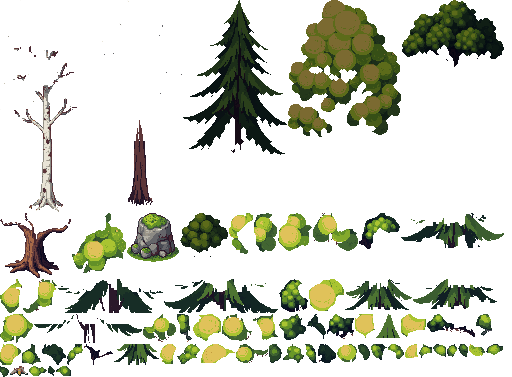
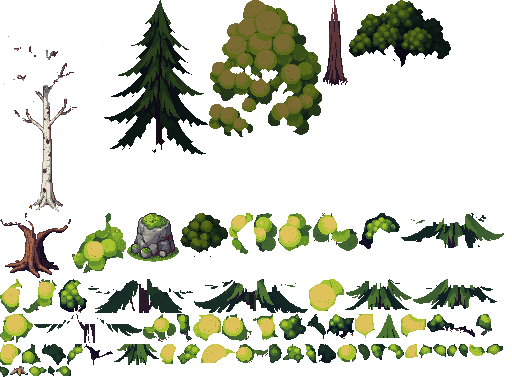
Repaint stray white specks in the oak and the pine
A new opt-in pipeline step, despeck, repaints tiny groups of pale pixels
with the commonest colour around them. The oak had a white blob at its
trunk fork that showed on every oak; the pine had white and grey pixels
in its needles that stayed still while its tiers moved. Source PNGs stay
as generated.

Claude-Session: https://claude.ai/code/session_01LW5Ku5sxgEsJoDuKHZoC4B

Changed region(s): [[0.1875, 0.0, 1.0, 0.5544], [0.0938, 0.7294, 0.625, 0.8462]]

diff --git a/tools/art_pipeline.py b/tools/art_pipeline.py
@@ -96,10 +96,47 @@ def strip_ground(rgba, rows, notes):
     return rgba
 
 
+def despeck(rgba, max_size, notes):
+    """Repaint tiny pale specks with the colour around them.
+
+    Some generated sprites carry a few stray white pixels, a glint in a dark
+    fork or on a needle. In the game they read as a glitch on every copy of
+    the tree, and the split files them as pale bark, so they stay behind when
+    the leaves move. A speck is a group of pale pixels (the pale bark test)
+    no bigger than max_size. Each one takes the commonest colour of its solid
+    neighbours. Opt in per sprite: a birch is made of pale pixels.
+    """
+    solid = rgba[..., 3] >= 128
+    rgb = rgba[..., :3].astype(float)
+    hsv = rgb2hsv(rgb / 255)
+    pale = solid & (hsv[..., 1] < 0.16) & (luminance(rgb) > 95)
+    labels, count = ndimage.label(pale, structure=np.ones((3, 3)))
+    if count == 0:
+        return rgba
+    sizes = np.concatenate([[0], ndimage.sum(pale, labels, index=range(1, count + 1))])
+    specks = (labels > 0) & (sizes[labels] <= max_size)
+    if not specks.any():
+        return rgba
+    out = rgba.copy()
+    h, w = solid.shape
+    for y, x in zip(*np.where(specks)):
+        for reach in (1, 2, 3):
+            y0, y1, x0, x1 = max(0, y - reach), min(h, y + reach + 1), max(0, x - reach), min(w, x + reach + 1)
+            around = (solid & ~specks)[y0:y1, x0:x1]
+            if around.any():
+                colours, counts = np.unique(rgba[y0:y1, x0:x1][around], axis=0, return_counts=True)
+                out[y, x] = colours[np.argmax(counts)]
+                break
+    notes.append(f"{int(specks.sum())} pixels of pale specks repainted")
+    return out
+
+
 def normalize(name, rgba, notes, cfg=None):
     rgba, factor = undo_enlargement(rgba)
     if cfg and cfg.get("strip_ground"):
         rgba = strip_ground(rgba, cfg["strip_ground"], notes)
+    if cfg and cfg.get("despeck"):
+        rgba = despeck(rgba, cfg["despeck"], notes)
     if factor > 1:
         notes.append(f"was enlarged {factor}x, brought back to {rgba.shape[1]} x {rgba.shape[0]}")
     alpha = rgba[..., 3]

diff --git a/docs/art-guide.md b/docs/art-guide.md
@@ -183,8 +183,9 @@ Per-sprite settings live in `art/config/`: minimum distance between clump seeds,
 As built:
 
 - Run it with `python3 tools/art_pipeline.py`. It rebuilds `assets/atlas.png`, `assets/atlas.json` and one contact sheet per plant in `art/sheets/`. A sprite that breaks a rule stops the run with the reason.
-- One file per sprite in `art/config/`, named like the sprite: `oak-01.json`. Keys: `profile` (oak, birch, pine, bush), `split` (`clumps` or `tiers`), `min_dist`, `min_size`, `trunk_part`, `leaf_cut`, `tiers` for a pine, and `strip_ground`. A file with no `split` is a thing the wind does not move, such as a rock.
+- One file per sprite in `art/config/`, named like the sprite: `oak-01.json`. Keys: `profile` (oak, birch, pine, bush), `split` (`clumps` or `tiers`), `min_dist`, `min_size`, `trunk_part`, `leaf_cut`, `tiers` for a pine, `strip_ground` and `despeck`. A file with no `split` is a thing the wind does not move, such as a rock.
 - `strip_ground: N` removes the green pixels in the lowest N rows, counted up from the lowest root, and any loose fragment under 12 pixels left in that band. Only pixels are removed, nothing is drawn, and the PNG in `art/source/` stays as generated.
+- `despeck: N` repaints groups of pale pixels (the pale bark test) no bigger than N with the commonest colour of their solid neighbours. Generated sprites sometimes carry stray white or grey pixels: on every copy of a tree they read as a glitch, and the split files them as bark, so they stay behind when the leaves move. Opt in per sprite, never on a birch. In use: `oak-01` (5 pixels at the trunk fork) and `pine-01` (13 pixels in the needles), with N = 6. The PNG in `art/source/` stays as generated.
 - `leaf_cut` also works for a pine: below that share of the height there is only trunk, whatever its colour.
 - To bring in a real sprite: put `oak-01.png` in `art/source/`, run the pipeline, look at `art/sheets/oak-01.png`. Nothing else changes. The stand-in for that sprite is gone from the atlas.
 - Wood is found by colour: hue 335 to 360 and 0 to 40 degrees, saturation above 0.22, brightness under 125. The article's range starts at 5 degrees. Ours starts lower because our dark bark is a purple brown (`#5d3639`, `#492832`). Pale bark is saturation under 0.16 and brightness over 95.
